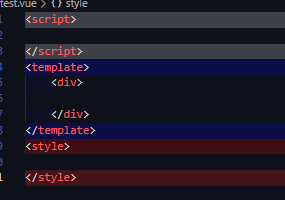
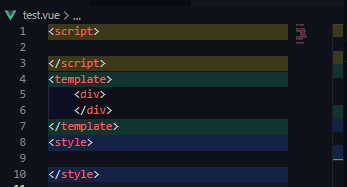
Fix: Update description in package.json and README.md for clarity

diff --git a/README.md b/README.md
@@ -1,24 +1,42 @@
 # vue-tag-highlight README
 
+**Vue Tag Highlight** is a Visual Studio Code extension that highlights and adds color to `<script>`, `<template>`, and `<style>` tags in Vue files. It helps improve the readability and structure of your Vue components by visually distinguishing the different sections of the code.
 
 ## Features
 
-Highlight and add color to `<script>`, `<template>`, and `<style>` tags in Vue.
+- Highlights `<script>`, `<template>`, and `<style>` tags with customizable background colors.
+- Display highlights in the text editor as well as in the scrollbar.
 
 For example, they will be highlighted as follows:
 
-![feature](https://github.com/taiiii123/vue-tag-highlight/assets/70006535/80ea0959-39e3-4c5c-a7ec-d17e44c17e6f)
+![feature](./images/example.png)
 
-## Extension Settings
+## Configuration
 
-If you want to set up custom highlighting for the `<script>`, `<template>`, and `<style>` tags, you can do so as follows:
+You can customize the background colors of the tags by modifying the settings in `settings.json`.
 
-```Json:settings.json
+### Available Configuration Settings
+
+- `vue-tag-highlight.color.script`: Change the background color of the `<script>` tag (default: `rgba(240, 216, 29, 0.2)`).
+- `vue-tag-highlight.color.template`: Change the background color of the `<template>` tag (default: `rgba(21, 191, 134, 0.2)`).
+- `vue-tag-highlight.color.style`: Change the background color of the `<style>` tag (default: `rgba(41, 101, 241, 0.2)`).
+- `vue-tag-highlight.isShowOnTextEditor`: Enable or disable the highlight in the text editor (default: `true`).
+- `vue-tag-highlight.isShowOnScrollbar`: Enable or disable the highlight in the scrollbar (default: `true`).
+
+Here is an example of the `settings.json` configuration:
+
+```json
+// settings.json
+// settings.json
 "vue-tag-highlight.color.script": "rgba(255, 255, 255, 0.2)",
 "vue-tag-highlight.color.template": "rgba(0, 0, 255, 0.2)",
-"vue-tag-highlight.color.style": "rgba(255, 0, 0, 0.2)"
+"vue-tag-highlight.color.style": "rgba(255, 0, 0, 0.2)",
+"vue-tag-highlight.isShowOnTextEditor": true,
+"vue-tag-highlight.isShowOnScrollbar": true
 ```
 
+## Activating the Extension
 
+The extension is activated automatically when editing a `.vue` file.
 
 ---
